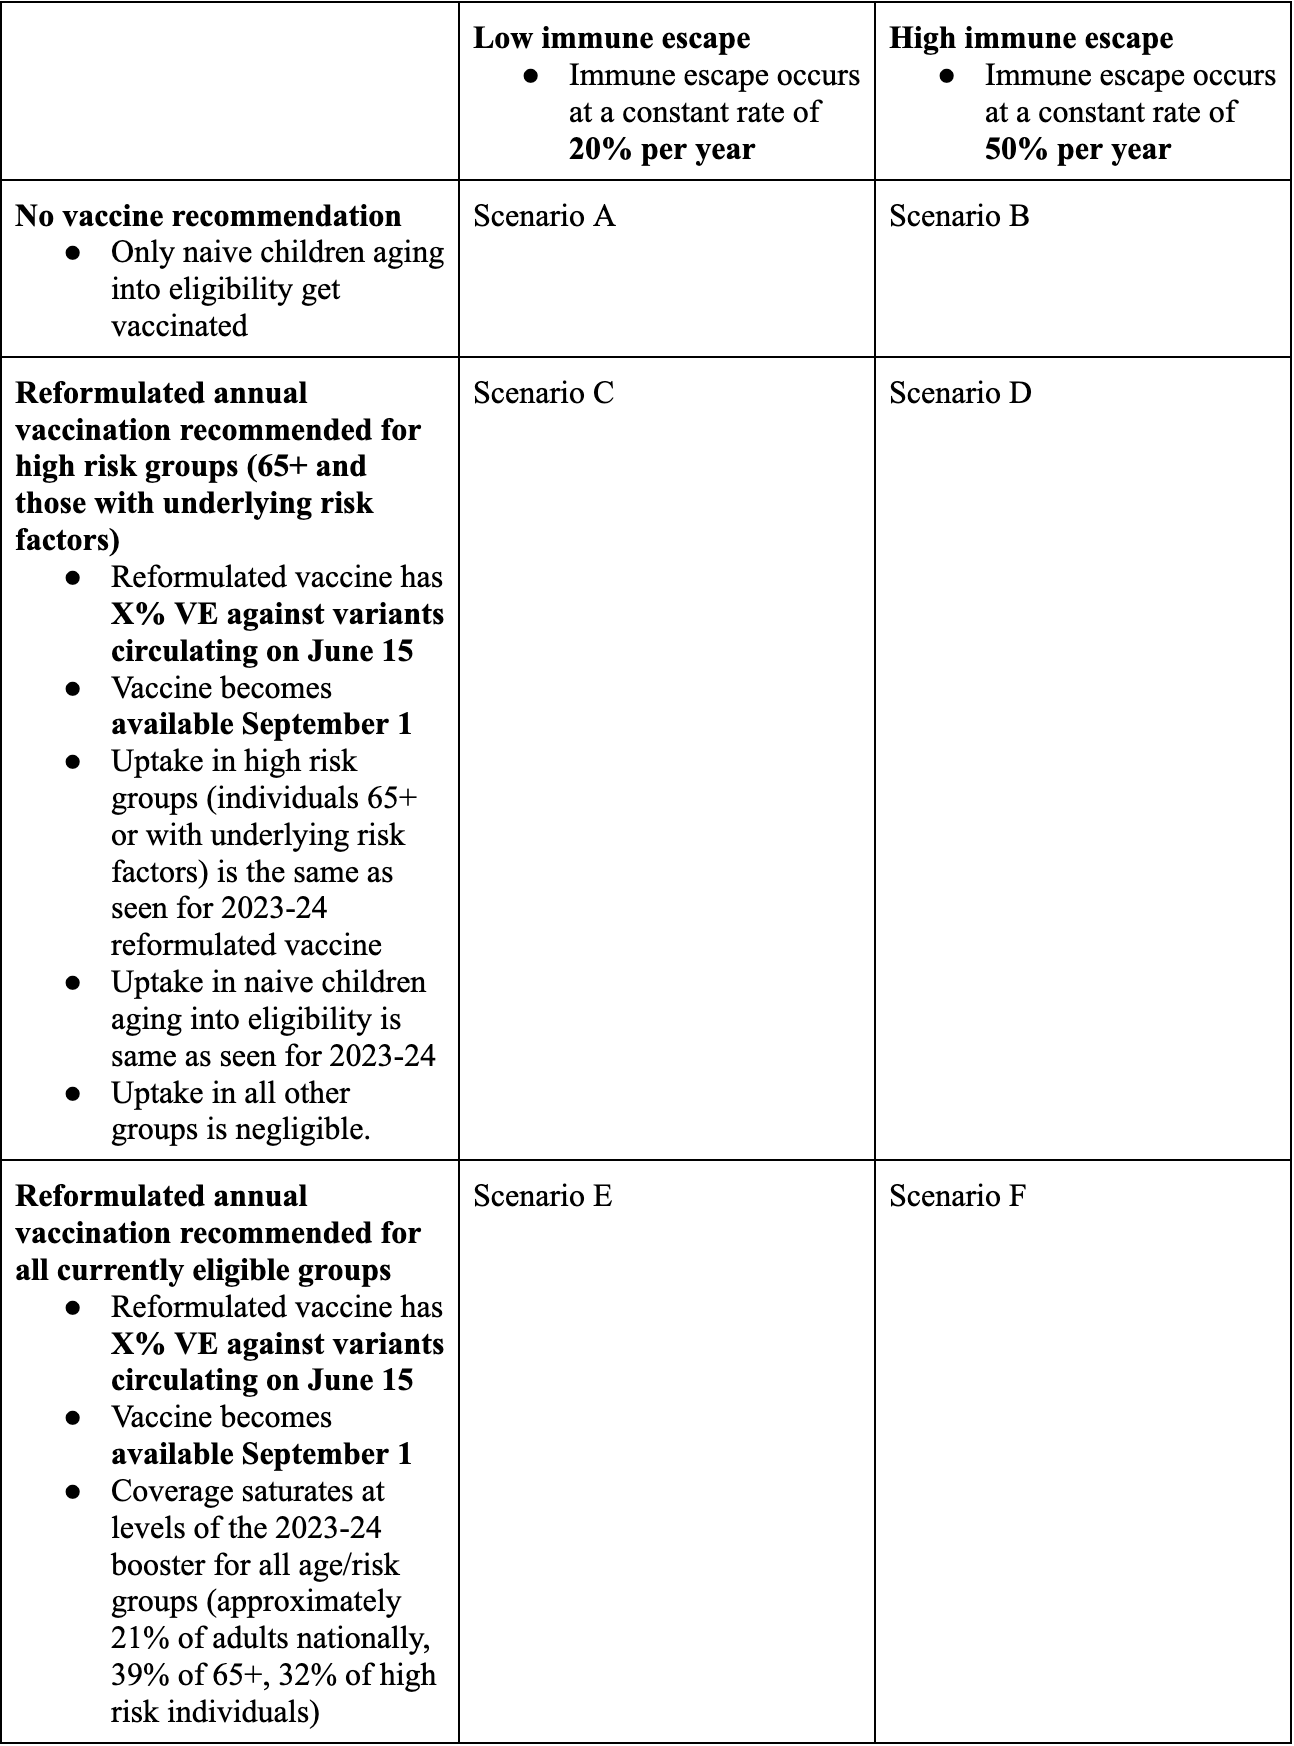
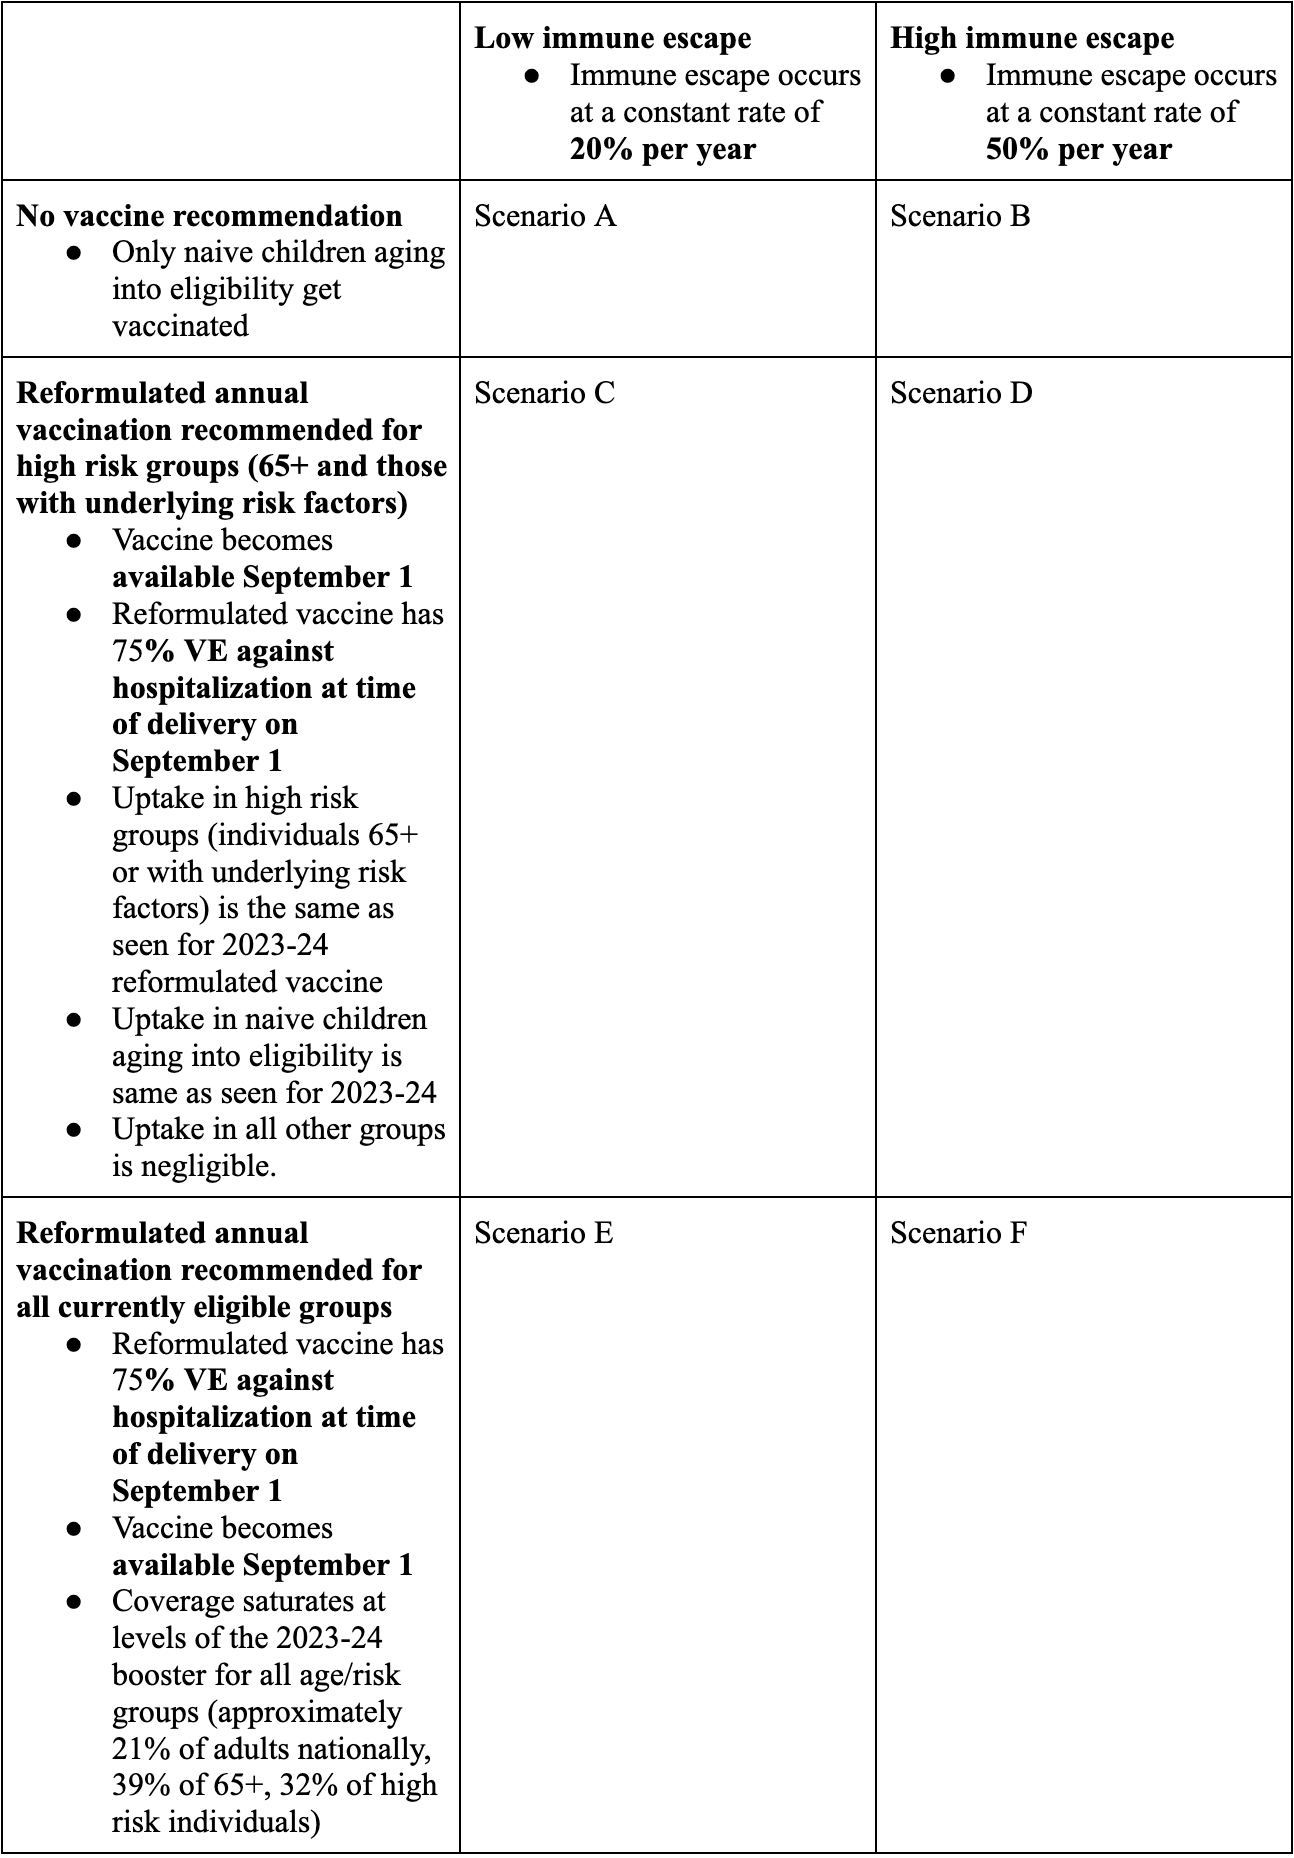
update README

diff --git a/README.md b/README.md
@@ -96,9 +96,9 @@ Round 18 focuses on the impact of different COVID-19 vaccination
 strategies with reformulated boosters combined with differing levels
 of antigenic drift. This round will follow closely the layout of
 Round 17, but with more consideration of population groups at
-high-risk for severe disease (of any age). The timeframe of
-projection will be Sun April 28, 2024 to Sat April 26, 2025
-(52 weeks).
+high-risk for severe disease (of any age). The timeframe of projection 
+will be Sun April 28, 2024 to Sat April 26, 2025 (52 weeks).
+
 
 
 ![](https://raw.githubusercontent.com/midas-network/covid19-scenario-modeling-hub/master/previous-rounds/Round18_scenarios_table.PNG)
@@ -106,21 +106,37 @@ projection will be Sun April 28, 2024 to Sat April 26, 2025
 
 ### **Vaccine Efficacy & Availability**
 
-In all scenarios, boosters are reformulated to match the predominant
-variants circulating on June 15, 2024, and are presumed to have X% VE
-against symptomatic disease at the time of reformulation on June
-15th. This VE is equivalent to a vaccine trial that would be
-performed on June 15 in populations who have varying levels of prior
-immunity at trial enrollment. Vaccinated individuals would have a X%
-reduced risk of symptomatic infection compared to the unvaccinated
-group in this trial on average, if VE was estimated a few days after
-June 15th. Immune escape will decrease the effective VE, starting on
-June 15. For instance if VE is X% on June 15, 2024, and immune escape
-is 20% annually, the same person vaccinated with the same vaccine one
-year later on June 15, 2025, would enjoy 0.8 * X% = Y% protection
-against symptoms compared to an unvaccinated individual. The
-reformulated vaccines become available to the public on September 1st
-of the same year. 
+In all scenarios, boosters are reformulated to match the predominant 
+variants circulating on June 15, 2024.  Teams should use VE against 
+COVID19 hospitalization = 75% at time of release on Sep 1, 2024, in 
+line with a recent study from 
+[Denmark](https://www.thelancet.com/journals/laninf/article/PIIS1473-3099(23)00746-6/fulltext).
+This VE is equivalent to a vaccine trial that would be performed on 
+September 1 in populations with varying levels of prior immunity at 
+trial enrollment. Hence, vaccinated individuals would have a 75% 
+reduced risk of hospitalization compared to unvaccinated individuals 
+on average in this trial, if VE was estimated a few days after Sepetember 
+1st. Importantly, this stated hospitalization reduction includes the 
+combined effects of protection against infection and protection against 
+hospitalization given (breakthrough) infection. We note that this is a 
+departure from earlier COVID-19 rounds where we stipulated VE against 
+symptomatic disease. Based on available evidence, we suggest that teams 
+choose VE against infection in the range 35-57% at time of release on 
+Sept 1, 2024 (see 
+[Google Docs](https://docs.google.com/document/d/1H-6Q9dIDjLCubU-oRAoVHyw7Lr-rlb_D_zp31hNyMGw/edit) 
+for detailed studies).
+
+
+As in Round 17, immune escape may decrease the effective VE against 
+hospitalization, starting on September 1. While immune escape against 
+infection should be modeled as stipulated in the scenarios (20/50% a year), 
+immune escape against severe disease is at teams’ discretion.  
+Further, waning of (vaccine-induced and natural) immunity against infection is 
+required, with parameters at teams discretion (3-10mo waning time, 40-60% 
+reduction against baseline protection levels in waned state). Waning of 
+vaccine-induced immunity against severe disease remains at teams discretion 
+(but if present should wane at slower timescale than against infection).
+
 
 
 ### **Vaccination Coverage**
@@ -154,14 +170,17 @@ of the same year.
  Uptake data from the 2023-24 season will be provided.
 
 In this round, we assume that high-risk populations, of any age, are
-included in booster recommendations in scenarios C, D, E, & F. We
-define high-risk groups as those with underlying conditions putting
-them at increased risk of severe outcomes from COVID-19. Data on the
-population size and vaccine coverage of high and low risk groups is
-provided by state and age in Github. We assume that VE in high-risk
-groups is X%. Data on increased risk of COVID-19 hospitalization from
-high risk groups can be found 
+included in booster recommendations in scenarios C, D, E, & F. We 
+define high-risk groups as those with underlying conditions putting 
+them at increased risk of severe outcomes from COVID-19. Data on the 
+population size and vaccine coverage of high and low risk groups is 
+provided by state and age in GitHub. Teams can choose to adjust VE 
+for high-risk and low-risk groups based on available evidence, 
+although the population-level average VE against hospitalization 
+should equal 75% on September 1. Data on increased risk of COVID-19 
+hospitalization from high risk groups can be found 
 [here](https://academic.oup.com/cid/article/72/11/e695/5908300).
+
 
 Projected vaccine coverage curves for 2024-25 season, by age, 
 state, and high-risk group, with population sizes of relevant age 
